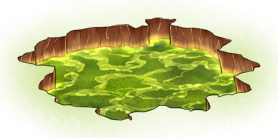
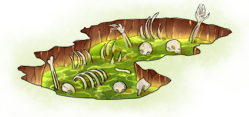
QuickBars; Party member sector color; Sprites updated;

diff --git a/src/controller.js b/src/controller.js
@@ -12,6 +12,10 @@ function Controller(game) {
     this.avatar = null;
     this.xpBar = new ParamBar("XP");
     this.effects = new Effects();
+    this.quickBars = {
+        ctrl: null,
+        alt: null,
+    };
 
     this.fight = null;
     this.skills = null;
@@ -589,11 +593,18 @@ function Controller(game) {
         });
         [0, 1, 2, 3, 4, 5, 6, 7, 8, 9].forEach(function(key) {
             this.hotkeys[String(key).charCodeAt(0)] = {
+                allowedModifiers: ["ctrl", "alt"],
                 callback: function() {
                     if (game.menu.visible)
                         game.menu.activate(key);
-                    else if (key > 0 && key <= 5)
-                        this.fight.hotkey(key);
+                    else if (key > 0 && key <= 5) {
+                        if (this.modifier.ctrl)
+                            this.quickBars.ctrl.hotkey(key);
+                        else if (this.modifier.alt)
+                            this.quickBars.alt.hotkey(key);
+                        else
+                            this.fight.hotkey(key);
+                    }
                 }
             };
         }.bind(this));
@@ -672,7 +683,16 @@ function Controller(game) {
             this.fpsStats.end();
     };
 
+
     this.initInterface = function() {
+        ["ctrl", "alt"].forEach(modifier => {
+            const quickBar = new QuickBar(modifier);
+            this.quickBars[modifier] = quickBar;
+            document.getElementById(`hotbars-${modifier}`).onclick = () => {
+                quickBar.panel.toggle();
+            };
+        });
+
         game.map.minimapContainer.style.display = "block";
         game.timeElement.style.display = "block";
 
@@ -971,6 +991,7 @@ function Controller(game) {
                                 return false;
                             }
                             if (game.player.IsAdmin && game.debug.entity.logOnClick) {
+                                window.debugEntity = this.world.hovered;
                                 console.log(this.world.hovered);
                             }
                             return this.world.hovered.defaultAction(true);
@@ -1437,6 +1458,12 @@ function Controller(game) {
             });
             containers.forEach(check);
         }
+    };
+
+    this.save = function() {
+        this.craft && this.craft.save();
+        this.minimap && this.minimap.save();
+        _.forEach(this.quickBars, (bar) => bar.save());
     };
 
     this.ping = 0;

diff --git a/src/ui/quick-bar.js b/src/ui/quick-bar.js
@@ -1,0 +1,78 @@
+/* global T, Panel, dom, ContainerSlot, game, playerStorage */
+
+class QuickBar {
+    constructor(modifier) {
+        this.modifier = modifier;
+        this.slots = _.range(5).map(i => {
+            const slot = new ContainerSlot({panel: this.panel, entity: {}}, i);
+            slot.element.check = () => true;
+            slot.element.use = (entity) => {
+                this.setSlot(slot, entity, i+1);
+                return true;
+            };
+            return slot;
+        });
+        this.panel = new Panel(
+            `quickbar-${this.modifier}`,
+            "",
+            dom.wrap("slots-wrapper", this.slots.map(slot => slot.element))
+        ).hideTitle().hideCloseButton();
+        this.load();
+    }
+
+    hotkey(key) {
+        const slot = this.slots[key-1];
+        const {entity} = slot;
+        if (!entity) {
+            return;
+        }
+
+        if (entity.canBeEquipped()) {
+            entity.equip();
+            return;
+        }
+
+        if (entity.Actions.includes("cast")) {
+            entity.cast(() => this.updateSlot(slot, entity, key));
+            return;
+        }
+
+        const action = ["Eat", "Consume", "Inject"].find(action => entity.Actions.includes(action));
+        if (action) {
+            game.network.send(action, {Id: entity.Id}, () => {
+                this.updateSlot(slot, entity, key);
+            });
+        }
+    }
+
+    setSlot(slot, entity, hotkey) {
+        slot.set(entity);
+        slot.setSup(`${this.modifier}+${hotkey}`);
+    }
+
+    updateSlot(slot, entity, hotkey) {
+        const items = game.player.findItems([entity.Type])[entity.Type];
+        if (items.length == 0) {
+            slot.clear();
+        } else {
+            this.setSlot(slot, items[0], hotkey);
+        }
+    }
+
+    load() {
+        const ids = playerStorage.getItem(`quickbar.${this.modifier}`);
+        if (!ids || ids.length != this.slots.length)  {
+            return;
+        }
+        ids.map(Entity.get).forEach((entity, i) => {
+            if (entity) {
+                this.setSlot(this.slots[i], entity, i+1);
+            }
+        });
+    }
+
+    save() {
+        playerStorage.setItem(`quickbar.${this.modifier}`, this.slots.map(slot => slot.entity && slot.entity.Id));
+    }
+
+}

diff --git a/src/entity.js b/src/entity.js
@@ -654,8 +654,10 @@ Entity.prototype = {
     },
     queueAction(action, list) {
         if (list.length > 0) {
-            game.network.send(action, {Id: _.head(list).Id}, () => {
-                this.queueAction(action, _.tail(list));
+            game.network.send(action, {Id: _.head(list).Id}, ({Ok}) => {
+                if (Ok == 2) {
+                    this.queueAction(action, _.tail(list));
+                }
             });
         }
     },
@@ -881,7 +883,7 @@ Entity.prototype = {
             var text = "(" + (this.X) + " " + (this.Y) + ")";
             text += " id:" + this.Id;
             game.ctx.fillStyle = "#e2e9ec";
-            game.drawStrokedText(text, p.x, p.y);
+            game.drawStrokedText(text, this.X, this.Y);
         }
     },
     drawSprite: function() {
@@ -1307,11 +1309,11 @@ Entity.prototype = {
 
         this.initSprite();
     },
-    cast: function() {
+    cast: function(callback = undefined) {
         switch (this.Type) {
         case "scroll-of-town-portal":
         case "hunter-scroll":
-            game.network.send("cast", {Id: this.Id});
+            game.network.send("cast", {Id: this.Id}, callback);
             break;
         case "embracing-web-scroll":
             game.controller.cursor.set(this);
@@ -1319,7 +1321,7 @@ Entity.prototype = {
         default:
             const spell = new Entity(this.Spell, this.Id);
             spell.initSprite();
-            game.controller.creatingCursor(spell, "cast");
+            game.controller.creatingCursor(spell, "cast", callback);
         }
     },
     claimControls: function() {

diff --git a/src/ui/exchange.js b/src/ui/exchange.js
@@ -1,9 +1,9 @@
-/* global Panel */
+/* global Panel, game, dom, T, Vendor, TS */
 
 "use strict";
 
 function Exchange(npc) {
-    game.network.send("get-exchange-info", {Id: npc.Id}, function callback(data) {
+    game.network.send("get-exchange-info", {Id: npc.Id}, function callback({StockExchange: stock}) {
         var table = dom.table(
             [
                 T("Name"),
@@ -11,8 +11,8 @@ function Exchange(npc) {
                 T("Sell rate"),
                 T("Sell ingots")
             ],
-            Object.keys(data.Rates).map(function(assignation) {
-                var rate = data.Rates[assignation];
+            Object.keys(stock.Rates).map(function(assignation) {
+                var rate = stock.Rates[assignation];
                 {
                     var name = dom.tag("td", "", {
                         text :  TS(assignation),
@@ -68,6 +68,10 @@ function Exchange(npc) {
         );
         table.id = "exchange-rates-table";
 
-        new Panel("exchange", "Exchange", table).show();
+        new Panel("exchange", "Exchange", [
+            table,
+            dom.hr(),
+            `Ruble: ${stock.Rub.toFixed(2)}`,
+        ]).show();
     });
 }

diff --git a/src/ui/chat/chat.js b/src/ui/chat/chat.js
@@ -283,13 +283,13 @@ function Chat() {
                 e.target.blur();
             }
             break;
-        case 9: // tab
-            var value = this.autocomplete(message);
-            if (value)
-                e.target.value = value;
+        // case 9: // tab
+        //     var value = this.autocomplete(message);
+        //     if (value)
+        //         e.target.value = value;
 
-            e.preventDefault();
-            return true;
+        //     e.preventDefault();
+        //     return true;
         default:
             return true;
         }
@@ -366,7 +366,6 @@ function Chat() {
                                 ),
                                 dom.wrap("", icon, {
                                     onclick: () => {
-                                        console.log(preview.Variant, preview.Sprite.Variants);
                                         preview.Variant = (preview.Variant % preview.Sprite.Variants) + 1;
                                         preview.initSprite();
                                         icon = dom.replace(icon, preview.icon());

diff --git a/src/character.js b/src/character.js
@@ -1118,13 +1118,17 @@ Character.prototype = {
         }
     },
     drawAttackRadius: function(angle = this.AttackAngle) {
-        game.ctx.strokeStyle = (this.isPlayer)
-            ? "rgba(0, 255, 0, 0.4)"
-            : "rgba(255, 0, 0, 0.4)";
+        if (this.isPlayer) {
+            game.ctx.strokeStyle = "rgba(0, 255, 0, 0.4)";
+            game.ctx.fillStyle = "rgba(255, 255, 255, 0.3)";
+        } else if (game.player.Party && game.player.Party.includes(this.Name)) {
+            game.ctx.strokeStyle = "rgba(50, 50, 255, 0.4)";
+            game.ctx.fillStyle = "rgba(50, 50, 255, 0.3)";
+        } else {
+            game.ctx.strokeStyle = "rgba(255, 0, 0, 0.4)";
+            game.ctx.fillStyle = "rgba(255, 0, 0, 0.3)";
+        }
 
-        game.ctx.fillStyle = (this.isPlayer)
-            ? "rgba(255, 255, 255, 0.3)"
-            : "rgba(255, 0, 0, 0.3)";
 
         let attackRadius = 1.5 * CELL_SIZE;
         if (this.target) {

diff --git a/src/drag-manager.js b/src/drag-manager.js
@@ -69,6 +69,12 @@ function DragManager() {
                     height: game.world.offsetHeight - margin,
                 },
                 {
+                    x: game.offset.x + (game.world.offsetWidth - game.world.clientWidth)/2,
+                    y: game.offset.y,
+                    width: game.world.clientWidth - margin,
+                    height: game.world.clientHeight - margin,
+                },
+                {
                     x: 0,
                     y: 0,
                     width: window.innerWidth - margin,

diff --git a/index.html b/index.html
@@ -55,6 +55,10 @@
 	  <div id="messages"></div>
           <div id="combos"></div>
 	  <div id="hotbars-container">
+              <div id="hotbars-quickbars">
+                  <div id="hotbars-ctrl">ctrl</div>
+                  <div id="hotbars-alt">alt</div>
+              </div>
               <div id="hotbars">
 	          <div id="main-action-button" class="button"></div>
 	          <div id="hotbars-wrapper">

diff --git a/main.less b/main.less
@@ -3235,6 +3235,18 @@ input[type=number], .lot-quantity > input, .price > input {
         display: flex;
     }
 
+    #hotbars-quickbars {
+        .cursor-pointer;
+        position: absolute;
+        right: 3px;
+        top: -40px;
+        font-size: 10px;
+
+        div:hover {
+            color: lightgreen;
+        }
+    }
+
     .button-bar {
         display: flex;
     }

diff --git a/src/game.js b/src/game.js
@@ -310,9 +310,8 @@ class Game {
             return;
         Panel.save();
         Container.save();
-        this.controller.craft && this.controller.craft.save();
+        this.controller.save();
         this.chat && this.chat.save();
-        this.controller.minimap && this.controller.minimap.save();
     };
 
     addEventListeners() {

diff --git a/src/container/slot.js b/src/container/slot.js
@@ -106,6 +106,9 @@ ContainerSlot.prototype = {
             this.placeholder.src = src;
         }
     },
+    setSup: function(text) {
+        this.sup.textContent = text;
+    },
     setSub: function(text) {
         if (this.sub == null) {
             this.sub = dom.tag("sub");
